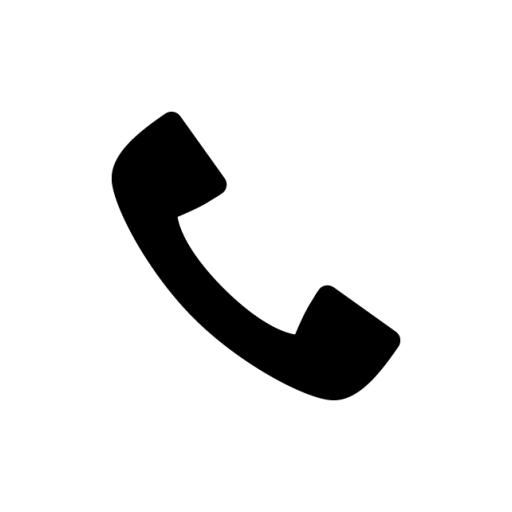
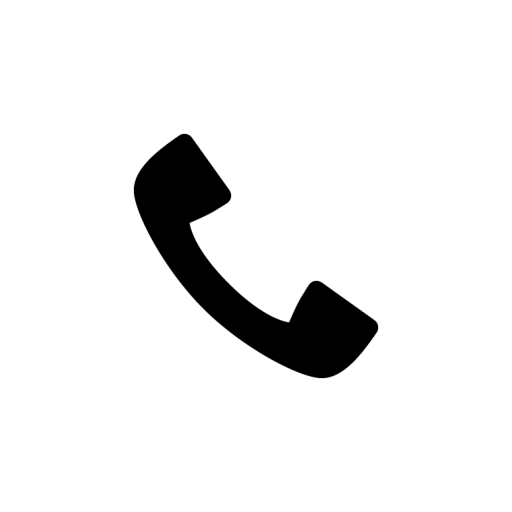
Updated UI of the AdDialog
- Made call and email buttons smaller
- Implemented more Khan
- Made image disply smaller

diff --git a/app/src/main/java/com/wirewheel/fragments/AdDialogFragment.java b/app/src/main/java/com/wirewheel/fragments/AdDialogFragment.java
@@ -127,7 +127,7 @@ public class AdDialogFragment extends DialogFragment {
         public Object instantiateItem(ViewGroup container, int position) {
             Context context = getActivity();
             ImageView imageView = new ImageView(context);
-            Ion.with(imageView).fitCenter().load(mImages[position]);
+            Ion.with(imageView).centerCrop().load(mImages[position]);
 
             container.addView(imageView, 0);
             return imageView;
